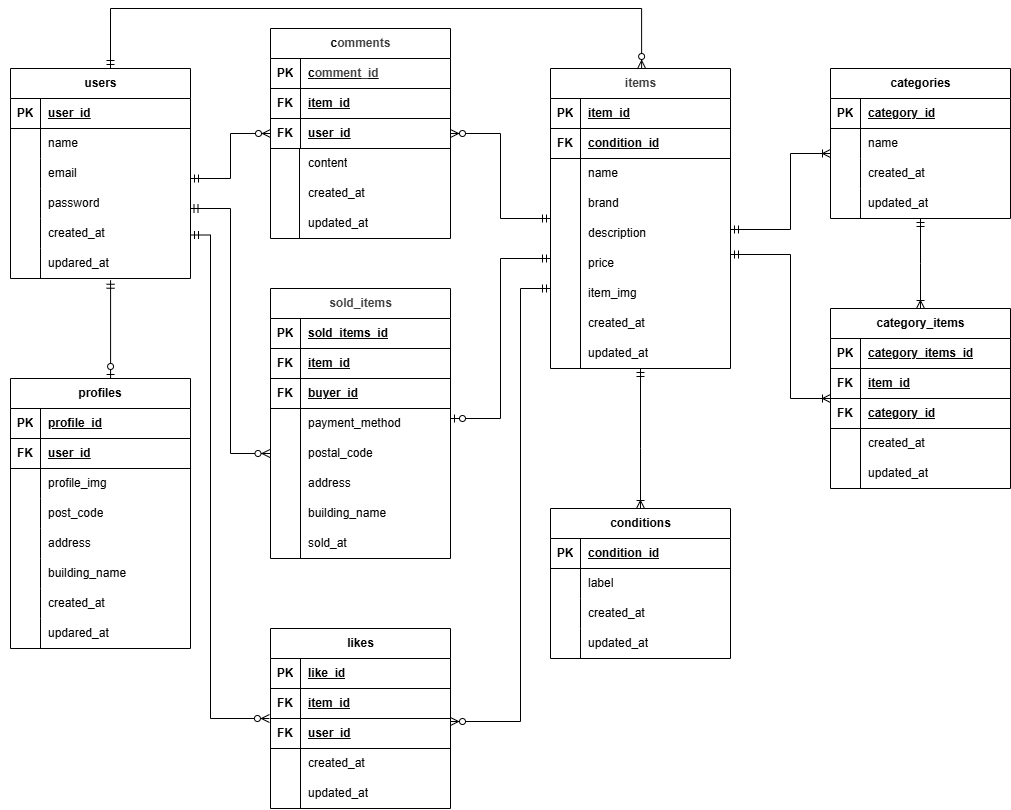
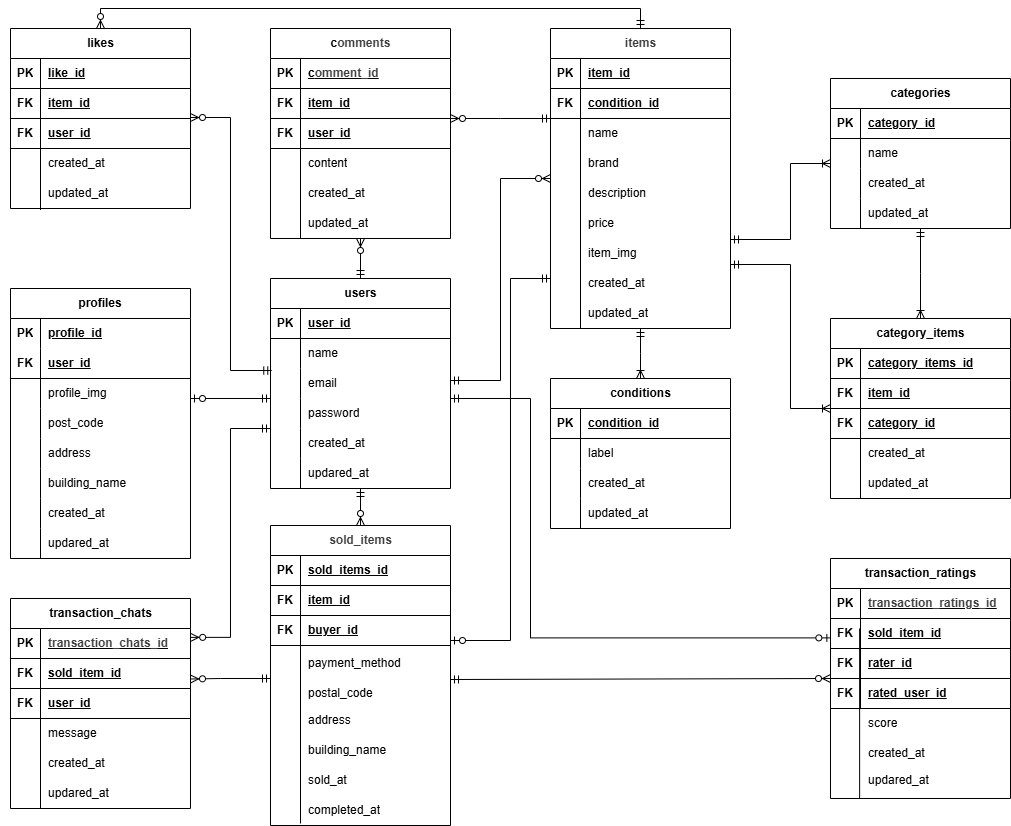
Docker権限修正前のバックアップ

diff --git a/laravel-app/database/migrations/2026_03_23_142524_create_transaction_ratings_table.php b/laravel-app/database/migrations/2026_03_23_142524_create_transaction_ratings_table.php
@@ -1,0 +1,31 @@
+<?php
+
+use Illuminate\Database\Migrations\Migration;
+use Illuminate\Database\Schema\Blueprint;
+use Illuminate\Support\Facades\Schema;
+
+class CreateTransactionRatingsTable extends Migration
+{
+    /**
+     * Run the migrations.
+     *
+     * @return void
+     */
+    public function up()
+    {
+        Schema::create('transaction_ratings', function (Blueprint $table) {
+            $table->id();
+            $table->timestamps();
+        });
+    }
+
+    /**
+     * Reverse the migrations.
+     *
+     * @return void
+     */
+    public function down()
+    {
+        Schema::dropIfExists('transaction_ratings');
+    }
+}

diff --git a/laravel-app/database/migrations/2026_03_23_142221_create_transaction_chats_table.php b/laravel-app/database/migrations/2026_03_23_142221_create_transaction_chats_table.php
@@ -1,0 +1,31 @@
+<?php
+
+use Illuminate\Database\Migrations\Migration;
+use Illuminate\Database\Schema\Blueprint;
+use Illuminate\Support\Facades\Schema;
+
+class CreateTransactionChatsTable extends Migration
+{
+    /**
+     * Run the migrations.
+     *
+     * @return void
+     */
+    public function up()
+    {
+        Schema::create('transaction_chats', function (Blueprint $table) {
+            $table->id();
+            $table->timestamps();
+        });
+    }
+
+    /**
+     * Reverse the migrations.
+     *
+     * @return void
+     */
+    public function down()
+    {
+        Schema::dropIfExists('transaction_chats');
+    }
+}

diff --git a/laravel-app/database/migrations/2026_03_23_142551_add_completed_at_to_sold_items_table.php b/laravel-app/database/migrations/2026_03_23_142551_add_completed_at_to_sold_items_table.php
@@ -1,0 +1,32 @@
+<?php
+
+use Illuminate\Database\Migrations\Migration;
+use Illuminate\Database\Schema\Blueprint;
+use Illuminate\Support\Facades\Schema;
+
+class AddCompletedAtToSoldItemsTable extends Migration
+{
+    /**
+     * Run the migrations.
+     *
+     * @return void
+     */
+    public function up()
+    {
+        Schema::table('sold_items', function (Blueprint $table) {
+            //
+        });
+    }
+
+    /**
+     * Reverse the migrations.
+     *
+     * @return void
+     */
+    public function down()
+    {
+        Schema::table('sold_items', function (Blueprint $table) {
+            //
+        });
+    }
+}
